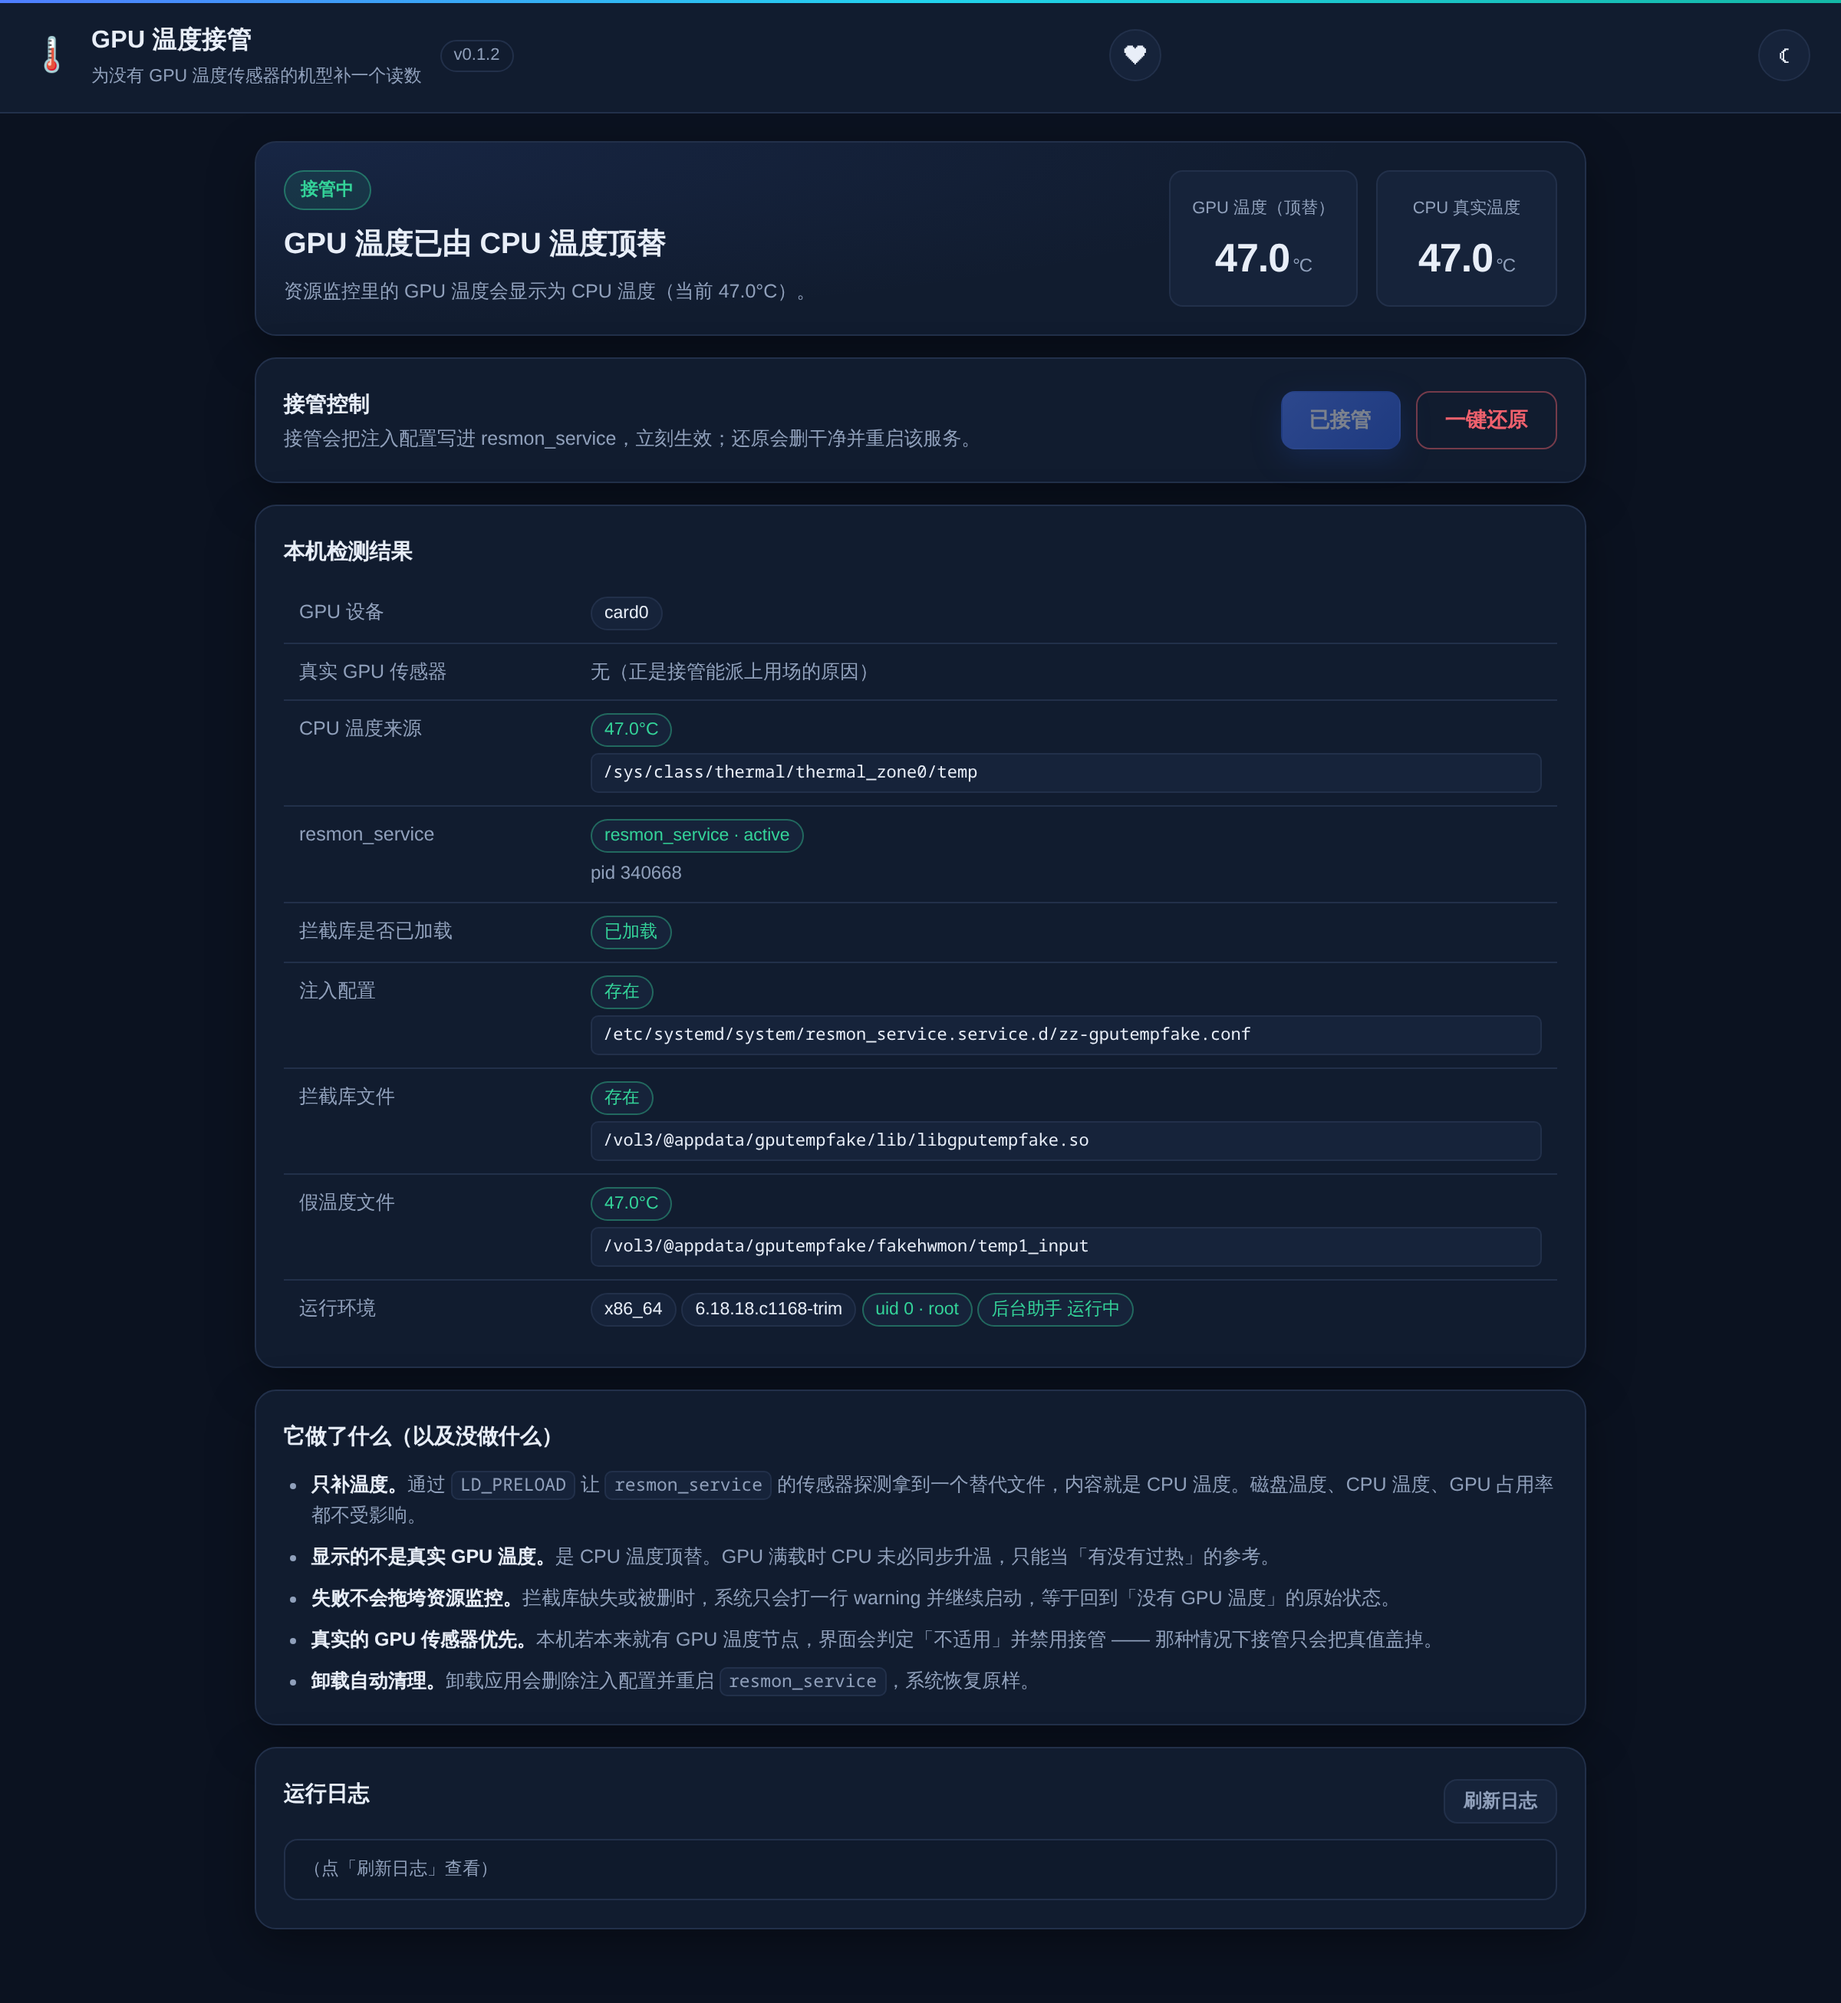
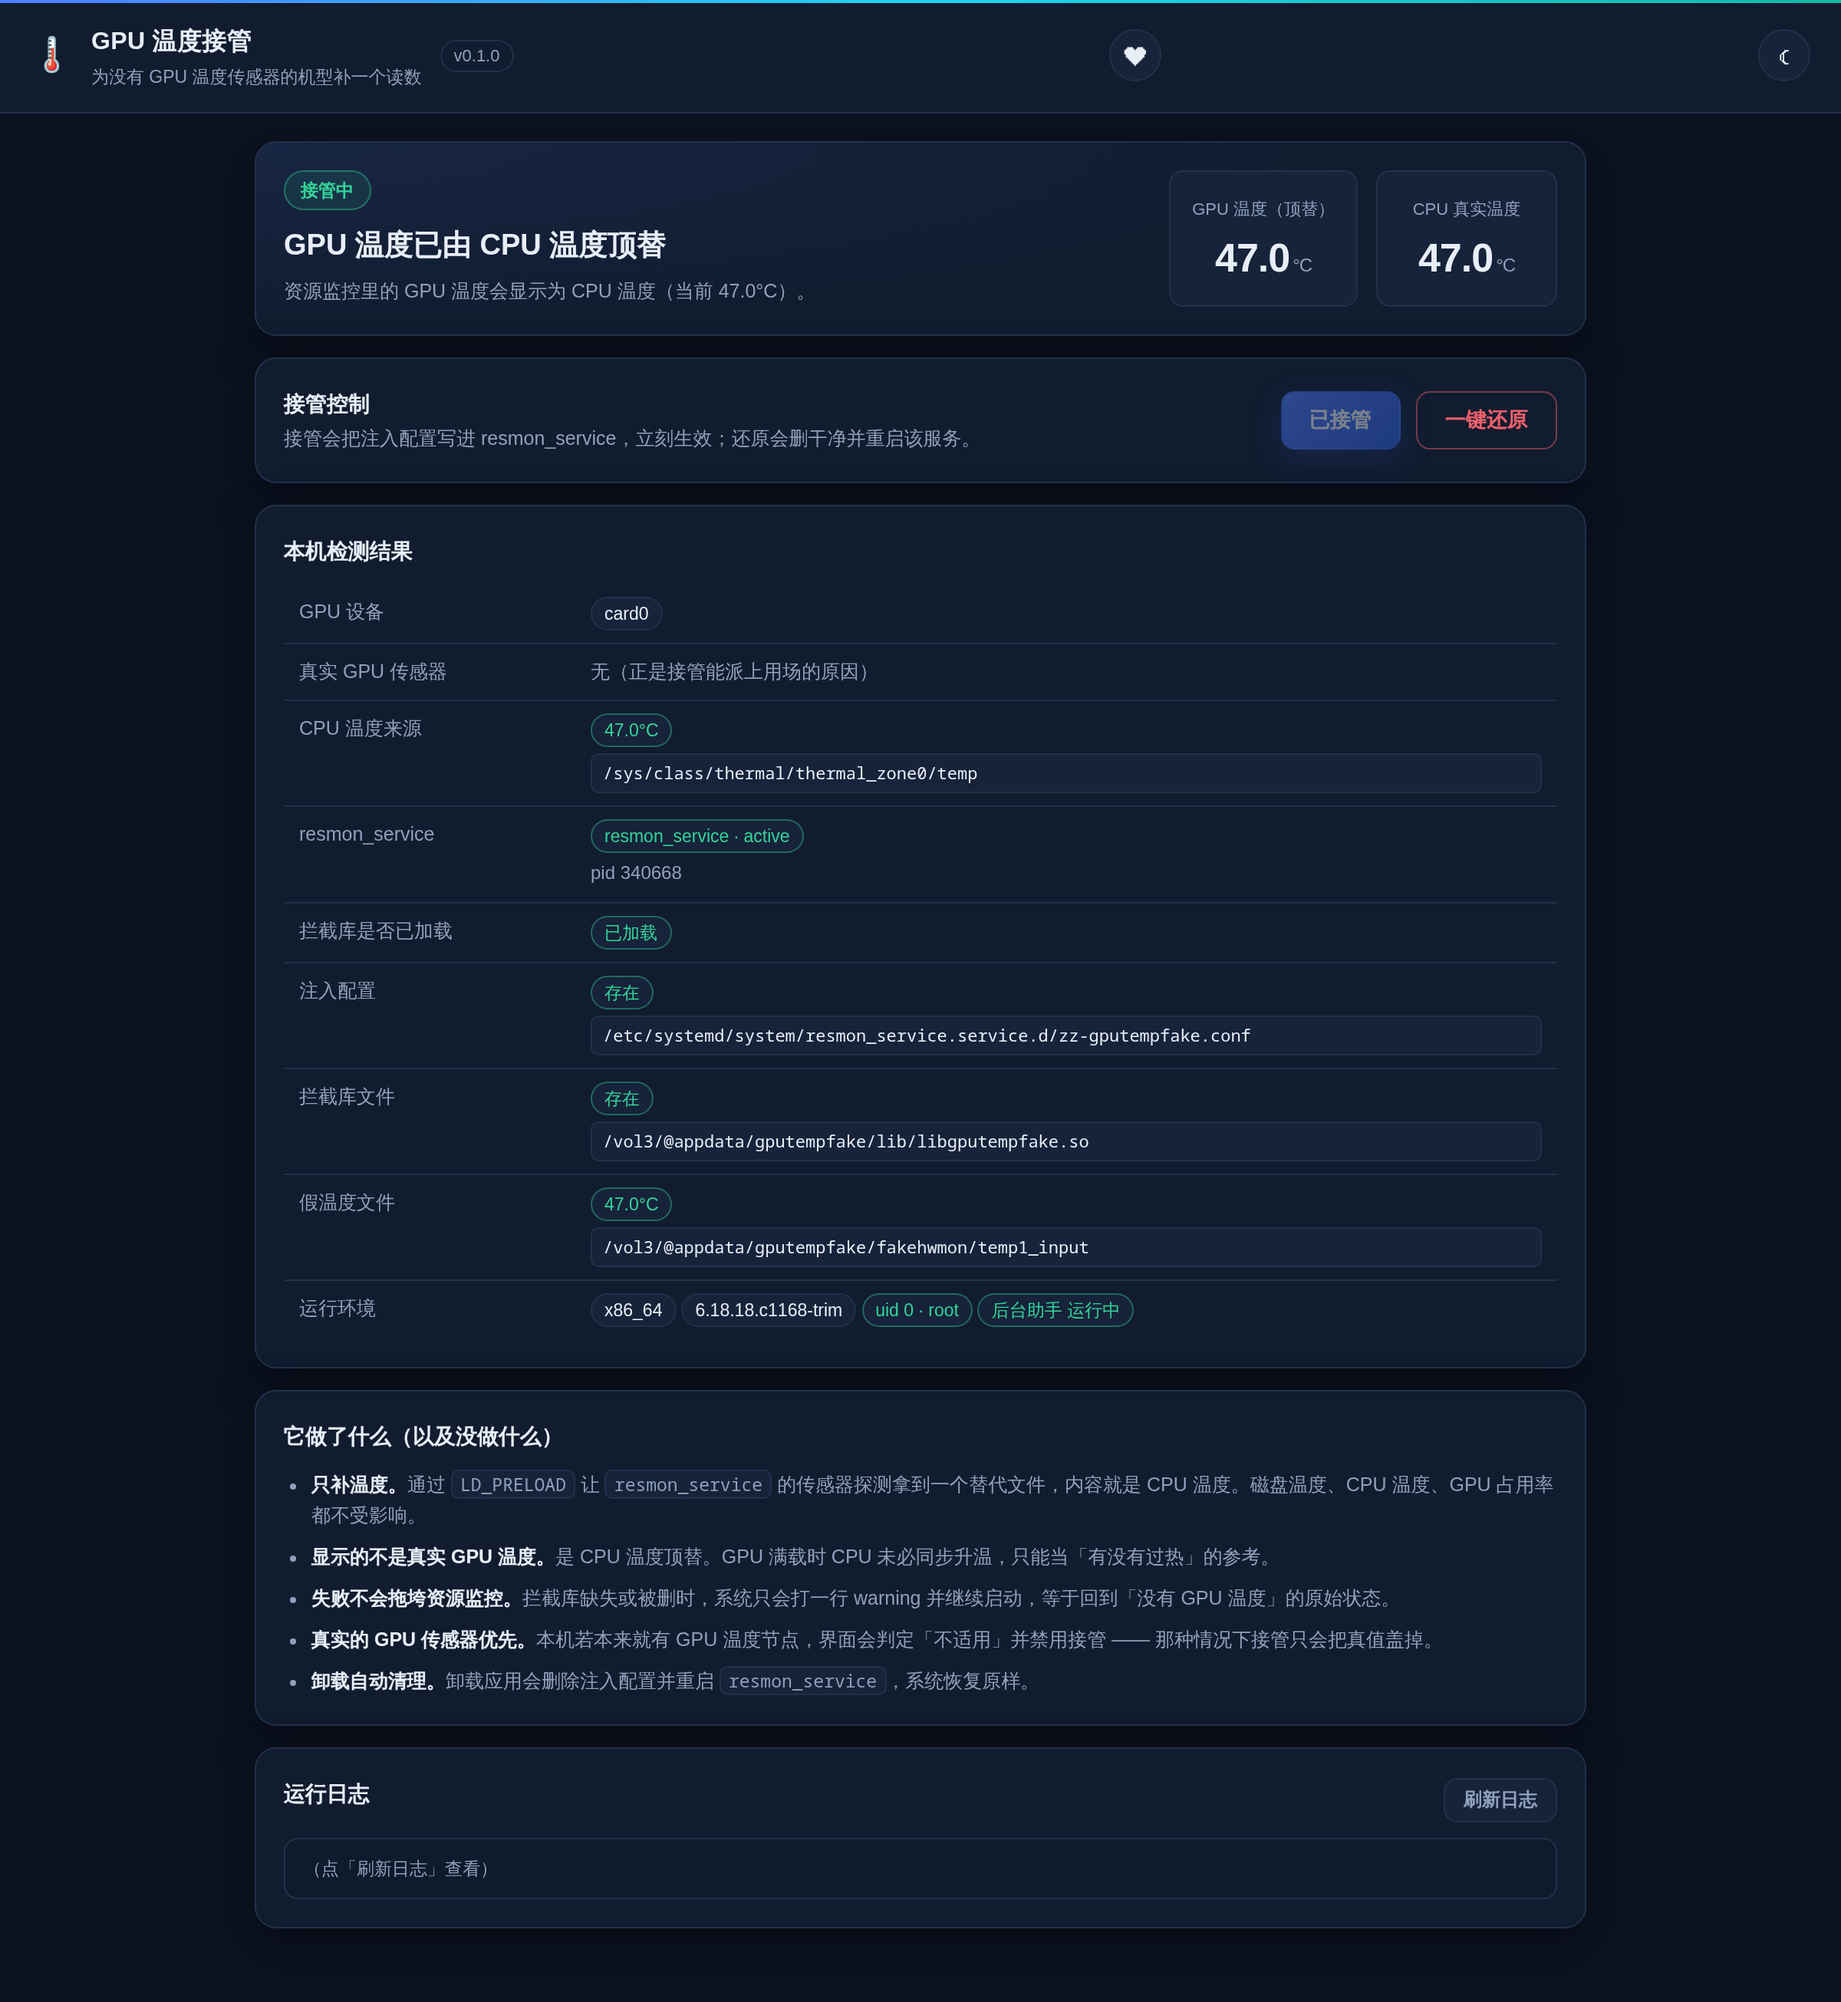
docs: 0.1.0 首发版本文档定稿
- README.md 顶部加版本标识「当前版本 v0.1.0（首发版本）· 平台 · 许可证」，
  末尾补「许可证」章节（MIT，指向 LICENSE）
- README-FnDepot.md 同步加版本标识与许可证行
- 预览图重新生成：原来三张截图顶部显示的是 v0.1.2（开发期临时填的 mock 版本号），
  首发版不能带这个号，已用 0.1.0 重渲染
- 全文复查：项目内已无 0.1.1 / 0.1.2 残留

说明：README 与 Preview 都不进 fpk（包内只有 manifest/ICON/LICENSE/wizard/cmd/config/app.tgz），
所以 fpk 未重新打包，sha256 仍为 34b2d348…

diff --git a/README-FnDepot.md b/README-FnDepot.md
@@ -1,5 +1,7 @@
 # GPU 温度接管
 
+> 当前版本：**v0.1.0**（首发版本）
+
 给**内核层就没有 GPU 温度传感器**的机型补一个读数，让 fnOS「资源监控」里的「GPU 温度」不再空白。
 
 ![界面](Preview/screenshot_overview.png)
@@ -81,3 +83,7 @@ fnOS 的 `resmon_service` 通过 `libhwinfo.so` 用 `glob()` 探测传感器，G
 - 纯 bash CGI 零运行时依赖，双架构拦截库（x86_64 / aarch64）随包分发
 - 深色 / 浅色主题，手机端适配；头部赞助按钮，赞赏码可点开放大
 - 卸载自动清理注入，不留悬挂的 `LD_PRELOAD`
+
+---
+
+MIT License · 作者：[一零一二](https://gitee.com/wyf1015)

diff --git a/README.md b/README.md
@@ -1,5 +1,7 @@
 # GPU 温度接管（GPUTempFake）
 
+> 当前版本：**v0.1.0**（首发版本）· 平台：fnOS（x86_64 / aarch64）· 许可证：MIT
+
 给**内核层就没有 GPU 温度传感器**的机型补一个读数，让 fnOS「资源监控」里的「GPU 温度」不再空白。
 
 > 典型机型：Intel Celeron J3355（Apollo Lake）这类 i915 核显。
@@ -102,6 +104,10 @@ bash src/build-shim.sh      # 编 x86_64 + aarch64 拦截库
 python3 src/make-icons.py   # 重新生成图标
 fnpack build .              # 产物 gputempfake.fpk（manifest 所在目录执行）
 ```
+
+## 许可证
+
+MIT License，见 [LICENSE](LICENSE)。
 
 ## 版本历史
 
